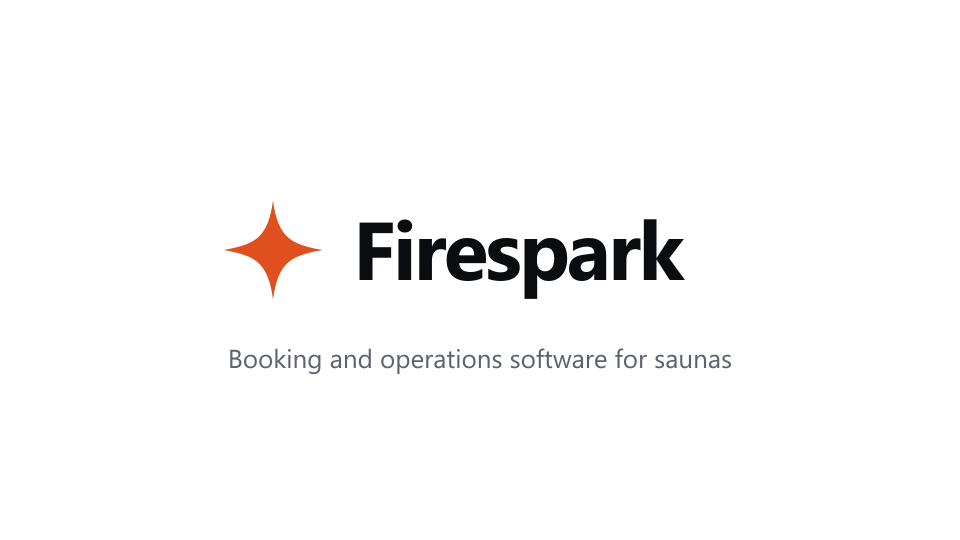
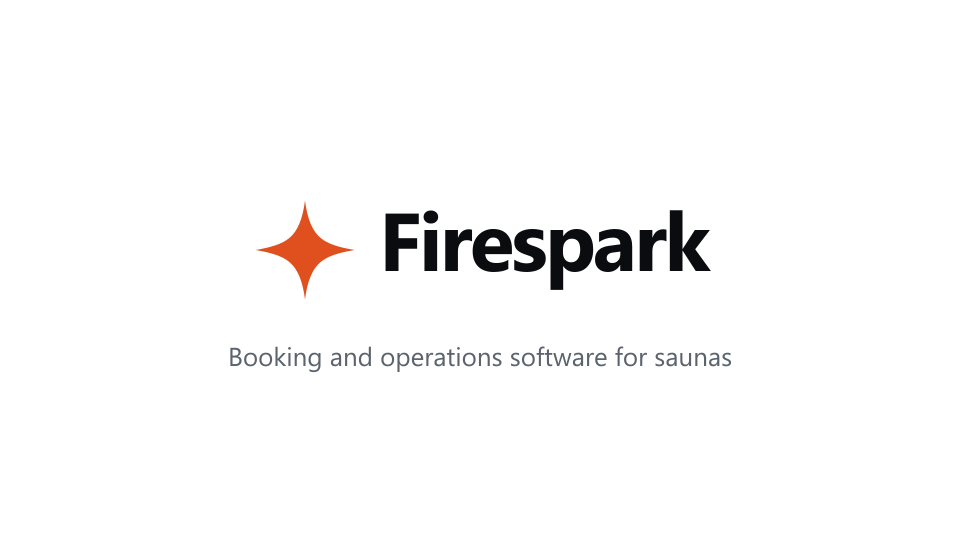
fix: measure the Firespark wordmark instead of estimating it, plus doc cleanups
From the second review pass.

The lockup was centred using a guessed wordmark width (9 glyphs x 0.53em). That
cannot be predicted: Inter is not installed on this machine, so the font stack
silently falls through to Segoe UI, and a bare Linux box would land somewhere
else again. The estimate happened to fit, but it would drift off-centre or
collide with the spark on any machine with a different font environment, and the
script's own documented workflow is "change it and re-run". It now renders the
text, trims to its real ink, and positions off the measured pixels, with a hard
failure if the lockup ever exceeds the card width.

Also dropped an unused EMBER constant (the spark's colour comes from the vendored
SVG, so the constant was a second source of truth that nothing read), corrected
README's project list, and rewrote public/img/.gitkeep, which still told a reader
to drop files in by hand and named files that no longer exist. That directory is
build output now.

Changed region(s): [[0.2188, 0.3852, 0.75, 0.563], [0.2188, 0.6519, 0.7812, 0.7111]]

diff --git a/README.md b/README.md
@@ -26,23 +26,23 @@ All editable text lives in `content/` — you shouldn't need to touch components
 | ------------------------ | --------------------------------------------------------- |
 | `content/profile.ts`     | Name, tagline, bio, education, contact links, portrait path |
 | `content/experience.ts`  | Presterly (Hatch105), Loira AI, Trinity Student Managed Fund |
-| `content/projects.ts`    | Presterly, Loira AI, Remand, Under the Campanile, Sauna OS, ContraBot |
+| `content/projects.ts`    | Presterly, Firespark, Loira AI, Remand, Under the Campanile, ContraBot |
 | `content/skills.ts`      | Grouped skills readout                                    |
 
-### Things to fill in
+### Images
 
-- **Images** — drop files into `public/img/`, then point the matching entry at them:
-  - Portrait → set `portrait: "/img/portrait.jpg"` in `content/profile.ts`.
-  - Project screenshots → set each project's `image` in `content/projects.ts`
-    (e.g. `image: "/img/larry.png"`).
-  - Until a path is set, the site shows a labelled placeholder box.
+Everything in `public/img/` is built by `node scripts/build-images.mjs`. Don't hand-edit
+the files — change the script and re-run it. See the Images section of `AGENTS.md` for
+where each source comes from and why. Set `image` **and `imageAlt`** together on a
+project; a project with no `image` falls back to a procedural CRT alignment card.
 
 ## Customising the look
 
 The whole CRT theme is driven by CSS variables at the top of `app/globals.css`
 (`--green`, `--amber`, `--bg`, spacing scale, glow). Change those to retune colours.
-The image tint lives in `.imgframe__img` (the `filter:` line) — dial it down or
-remove it if you'd rather show photos in full colour.
+Three phosphor themes ship (`green`, `amber`, `ice`) and are switchable live from the
+site's own terminal with `theme amber`. Imagery is phosphor-tinted at rest and resolves
+to full colour on hover; that tint lives in `.imgframe__img` (the `filter:` line).
 
 Motion (scanline drift, flicker, blinking cursor, boot animation) is automatically
 disabled for visitors who set `prefers-reduced-motion`.
